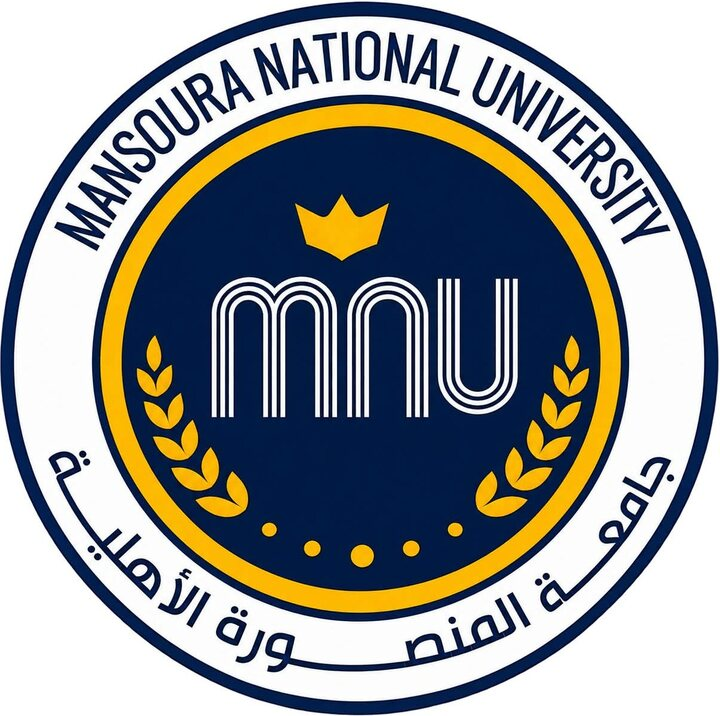
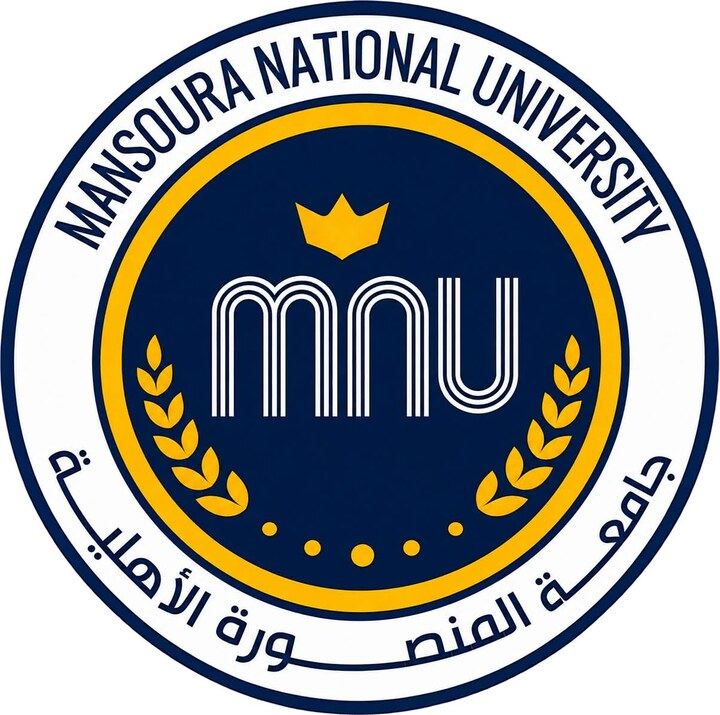
Replace the university and faculty seals with the clearer files.
The faculty seal no longer has the cropped white edge.

diff --git a/index.html b/index.html
@@ -27,8 +27,8 @@
 <header class="navbar">
   <div class="nav-inner">
     <div class="seal-bar">
-      <img src="images/mansoura-national-university.jpg" alt="Mansoura National University" width="34" height="34">
-      <img src="images/faculty-of-pharmacy.jpg" alt="Faculty of Pharmacy, Mansoura National University" width="34" height="34">
+      <img src="images/mansoura-national-university.jpg?v=2" alt="Mansoura National University" width="34" height="34">
+      <img src="images/faculty-of-pharmacy.jpg?v=2" alt="Faculty of Pharmacy, Mansoura National University" width="34" height="34">
       <img src="images/pharmaceutics-department.jpg" alt="Pharmaceutics Department" width="34" height="34">
       <p>Supervised by · تحت إشراف · Prof. Dr. Irhan I. Abu Hashim · Prof. Dr. Marwa S. El-Dahhan</p>
     </div>
